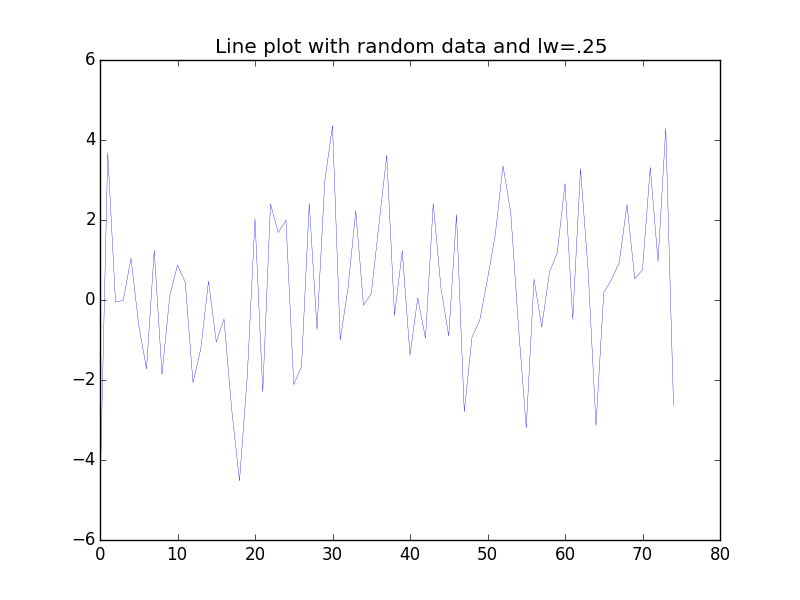
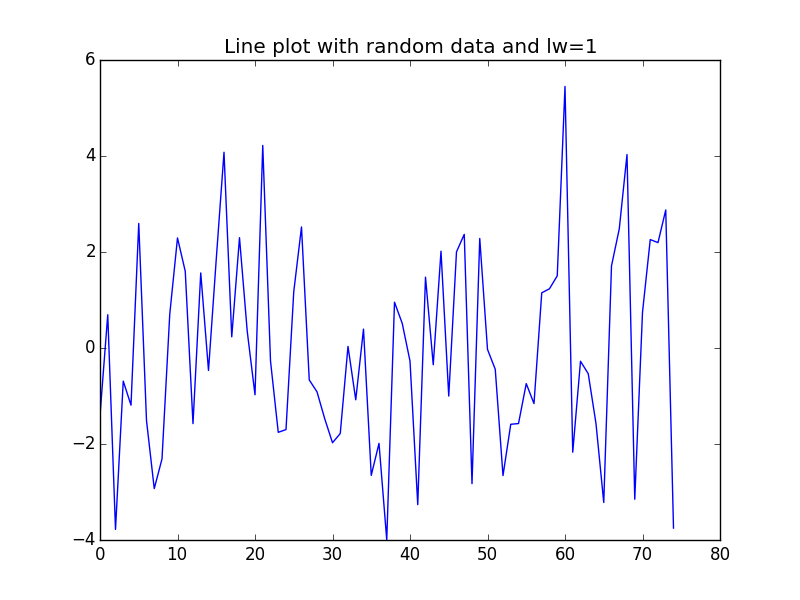
Changed some of the graphs in data visualization lab

diff --git a/Labs/ScientificVisualization/DataVisualization.tex b/Labs/ScientificVisualization/DataVisualization.tex
@@ -186,11 +186,11 @@ plot a histogram with white reference lines.  Do this for 20 bins, 10 bins, 5 bi
 
 \subsection*{Line Plots}
 
-Line plots should not be used for data that is one-dimensional or is two-dimensional with no natural ordering or progression because it gives the false impression that there is an order or progression when none exists (see Figure \ref{fig:lineplot_bad}.
+Line plots should not be used for data that is one-dimensional or is two-dimensional with no natural ordering or progression because it gives the false impression that there is an order or progression when none exists (see Figure \ref{fig:lineplotbadX}).
 
 Recall that you can create a line plot in matplotlib with the command \li{plt.plot()}.
 
-When plotting line graphs in matplotlib, the default line width is usually too thin.  It will help your reader (or you) if you set the line width to 2 or more with the argument \li{lw=2}.
+When plotting line graphs in matplotlib, the default line width is usually too thin.  It will help your reader (or you) if you set the line width to 2 or more with the argument \li{lw=2} (See Figure \ref{fig:lineplot_bad}).
 
 %\li{plt.plot(x,y,lw=2)}
 
@@ -203,10 +203,20 @@ When plotting line graphs in matplotlib, the default line width is usually too t
 \end{subfigure}
 \begin{subfigure}{.45\textwidth}
 \centering
-\includegraphics[width=\textwidth]{line_plot_bad_thick.png}
+\includegraphics[width=\textwidth]{line_plot_good.png}
 \end{subfigure}
-\caption{Line Plot}
+\caption{Line Plot.  The left plot is plotted with \li{lw=1} whereas the right plot is plotted with \li{lw=2}.  Notice that the right plot is better because it is easier to see the line.}
 \label{fig:lineplot_bad}
+\end{figure}
+
+\begin{figure}
+\centering
+\begin{subfigure}{.5\textwidth}
+\centering
+\includegraphics[width=\textwidth]{line_plot_bad_X.png}
+\end{subfigure}
+\caption{Line plot.  Notice that this graph appears to show that the x-values are ordered.  Whereas in reality they are unordered.  This is a bad practice and misrepresents the data.}
+\label{fig:lineplotbadX}
 \end{figure}
 
 
@@ -271,18 +281,6 @@ You can create a contour plot in matplotlib with
 Filling in the contours with successive colors gives a  \emph{heat map}. Note that the default color map for matplotlib is the  \emph{rainbow color map}.  This is a poor choice for a heat map or colored contour map because people do not naturally interpret one color to be greater than another.  To solve this problem in matplotlib, use the argument \li{cmap='NAME\_OF\_COLORMAP'}
 where \li{NAME\_OF\_COLORMAP} is one of matplotlib's sequential or diverging colormaps like \li{afmhot}. 
 
-\begin{lstlisting}
-import numpy as np
-from matplotlib import pyplot as plt
-
-n=400
-xrange = np.linspace(-1.5,1.5,n)
-yrange = np.linspace(-1.5,1.5,n)
-X, Y = np.meshgrid(xrange,yrange)
-F = Y**2 - X**3 + X**2
-plt.contourf(X, Y, F, [-2,-1,0.0001,1,2,3,4,5] ,cmap=plt.get_cmap('afmhot'))
-\end{lstlisting}
-
 \begin{figure}[h]
 \centering
 \begin{subfigure}{.45\textwidth}
@@ -301,13 +299,25 @@ plt.contourf(X, Y, F, [-2,-1,0.0001,1,2,3,4,5] ,cmap=plt.get_cmap('afmhot'))
 \centering
 \includegraphics[width=\textwidth]{contour_map_rainbow.png}
 \end{subfigure}
-\caption{Contour Maps.  The top left is a good contour map and the top right is a good heat map, and the bottom tow are inferior because of bad color choices.}
+\caption{Contour Maps.  The top left is a good contour map and the top right is a good heat map, and the bottom two are inferior because of bad color choices.  The top right corresponds to the code below.}
 \label{fig:contour}
 \end{figure}
 
+\begin{lstlisting}
+# This code corresponds to the above graph on the top right.
+import numpy as np
+from matplotlib import pyplot as plt
+
+n=400
+xrange = np.linspace(-1.5,1.5,n)
+yrange = np.linspace(-1.5,1.5,n)
+X, Y = np.meshgrid(xrange,yrange)
+F = Y**2 - X**3 + X**2
+plt.contourf(X, Y, F, [-2,-1,0.0001,1,2,3,4,5] ,cmap=plt.get_cmap('afmhot'))
+\end{lstlisting}
 
 
-TODO add in the list (and pix) of sequential and diverging colormaps from \url{http://matplotlib.org/examples/color/colormaps_reference.html} 
+TODO add in a list (and pix) of a few sequential and diverging colormaps from \url{http://matplotlib.org/examples/color/colormaps_reference.html} 
 
 
 
@@ -354,13 +364,9 @@ TODO make an example where things are binned in two different ways  and give a d
 
 
 Finally, three-dimensional data can also be plotted as a surface in 3-space, but it is often difficult to find a view where none of the important features of the data are obscured.
-A heatmap can help avoid this problem and is often easier for the viewer to decode.
+A heatmap can help avoid this problem and is often easier for the viewer to decode (see Problem \ref{prob:differentVisualizations}).
 
-
-TODO give example of how the surface can obscure your view and how the contour or heatmap gives a clearer picture.
-
-
-\section*{Exploring data with visualizations}
+\section*{Exploring Data with Visualizations}
 When you visualize data you may notice trends that are not apparent from the numbers. 
 The following problem is a famous example of this phenomenon.
 
@@ -400,7 +406,7 @@ x & y & x & y & x & y & x & y \\
 
 As Problem \ref{prob:anscombe} demonstrates, a picture can quickly reveal properties of the data that are difficult to see in a list of numbers.
 
-\subsection*{The iterative process of exploratory visualization} 
+\subsection*{The Iterative Process of Exploratory Visualization} 
 
 Understanding a data set through visualization is often an iterative process. We start with an initial visualization---usually a broad overview.  Examining the result leads to observations that provoke questions.  We then filter or transform the data and adjust the visualization based on those questions and observations, and then repeat the process until we converge on a useful result.
 
@@ -415,11 +421,11 @@ Some of the questions that you should be asking in this iterative process includ
 \end{enumerate}
 Let's consider each of these questions in more detail.
 
-\subsubsection*{1. Data integrity}
+\subsubsection*{1. Data Integrity}
 
 Visualization is a powerful way to identify problems with your data set.  Ask yourself, whether the results look like what you expect.  Are they the right magnitude? Are there missing values? 
 
-\subsubsection*{2. Trends, patterns, and irregularities}
+\subsubsection*{2. Trends, Patterns, and Irregularities}
 
 Some patterns you may look for:
 \begin{enumerate}
@@ -434,10 +440,11 @@ Some patterns you may look for:
 \item Is the data dense or sparse?
 \end{enumerate}
 
-\subsubsection*{3. Using different types of visualization}
+\subsubsection*{3. Using Different Types of Visualization}
 
 Data can be visualized using different types of visualization and is relatively easy to transform.
 
+TODO give example of how the surface can obscure your view and how the contour or heatmap gives a clearer picture.
 \begin{problem}
 This data
 
@@ -458,7 +465,7 @@ Violin & 22 \\
  is visualized in Figure \ref{fig:pie} as a pie chart.
 
 Choose another type of visualization and plot the data again. What are the relative merits of your plot compared to the pie chart?
-
+\label{prob:differentVisualizations}
 \end{problem}
 
 \begin{comment}
@@ -473,7 +480,7 @@ Choose another type of visualization and plot the data again. What are the relat
 \end{figure}
 \end{comment}
 
-\subsubsection*{4. Changing the view}
+\subsubsection*{4. Changing the View}
 
 By choosing to plot only a portion of your data, you may be able to focus your attention on the most relevant data.  On the other hand, you may also miss some interesting behavior in the data you didn't graph. Figures \ref{fig:scatter_correlation} and \ref{fig:line_scale} are two such examples. 
 
@@ -514,7 +521,7 @@ from Problem 3 and plot it a few more times adjusting the scale.
 TODO example where scatterplot of all people looks random, but separating by something like education level shows clear trends for one level. 
 \end{comment}
 
-\subsubsection*{Transforming the data}
+\subsubsection*{Transforming the Data}
 
 Often a transformation of the data can reveal useful information that was previously hidden.
 
@@ -546,7 +553,7 @@ Transformations can also be useful for histograms.
 As an example, let us look at the cost of health care claims. 
 Our data set is fabricated, but designed to closely resemble real-life data. 
 An initial plotting of the data produces the histogram on the left in Figure \ref{fig:healthcare}. 
-From this picture, it is hard to see the nature of the data---the plot just looks like a single bar. 
+From this picture, it is hard to see the nature of the data---the plot almost looks like a single bar. 
 We may think that all health care claims are cheap. 
 However, when we take the logarithm of the claims prices, we get the histogram on the right in Figure \ref{fig:healthcare}. 
 Graphed on this scale, the data has a bell-shaped distribution similar to a normal distribution. 
@@ -561,17 +568,18 @@ Moreover, we see that there are some very expensive claims being submitted, thou
   \centering
   \includegraphics[width=\textwidth]{healthcare_logscale.pdf}
 \end{subfigure}
-\caption{The same data (meant to resemble the prices of health care claims) is plotted in both histograms above. 
-The plot at left is a lin-lin scale, whereas the plot at right is a log-lin scale. 
+\caption{Two histograms of the same data are plotted above. 
+The plot at left is a lin-lin scale, whereas the plot at right is a log-lin scale (log of the $y$-values). 
 In this case, changing scales revealed important information about the data.}
 \label{fig:healthcare}
 \end{figure}
 
-As a general rule, log-lin plots are useful when the range of the $y$-values is orders of magnitude larger than the range of the $x$-values. 
+As a general rule, taking the log of the $y$-values is most useful when the range of the $y$-values is orders of magnitude larger than the range of the $x$-values. 
 Our health care data was an example of this. 
-Similarly, lin-log plots are useful when the range of the $x$-values is much bigger than the range of the $y$-values. 
+Similarly, taking the log of the $x$-values is most useful when the range of the $x$-values is much bigger than the range of the $y$-values. 
 In any case, you can try applying a log scale to one or both of your axes as a way to explore your data.
 
+\begin{comment}
 Let us analyze the mathematics behind log plots. 
 Suppose we have some data that roughly follows the line $y=cx^a$ where $c$ and $a$ are constants. 
 Taking the logarithm of both sides yields
@@ -579,7 +587,7 @@ Taking the logarithm of both sides yields
 \log(y) = a\log(x) + \log(c).
 \]
 If we set new variables $X = \log(x)$ and $Y = \log(y)$, then this equation becomes $Y = aX + \log(c)$, which is the equation of a straight line. 
-So  on a log-log plot, polynomial-shaped data looks linear. 
+So on a log-log plot, polynomial-shaped data looks linear. 
 Similarly, taking the log of $y = a^x$ yields
 \[
 \log(y) = \log(a)x,
@@ -587,6 +595,7 @@ Similarly, taking the log of $y = a^x$ yields
 so exponential data looks linear on a log-lin plot. 
 Finally, data of the form $y = a\log(x)+b$ will look linear on a lin-log plot. 
 See Figure \ref{fig:log_plots}.
+\end{comment}
 
 \begin{figure}
 \centering
@@ -597,7 +606,7 @@ We have used different ranges on the $y$-axes to highlight appropriate parts of 
 \label{fig:log_plots}
 \end{figure}
 
-Be warned that many different functions can look linear on log plots. 
+Be warned that many different functions can look almost linear on log plots. 
 Thus, if you graph your data on a log-log plot and you see a line, you cannot conclude that your data must follow a polynomial. 
 In general, you need more information.
 
@@ -701,13 +710,13 @@ explore it. Plot it in different ways, zoom in and out, and do a transformation.
 
 
 
-\section*{Communicating data with visualizations}
+\section*{Communicating Data with Visualizations}
 
 As the saying has it, ``a picture is worth a thousand words.'' 
 Certainly, a data visualization is far more valuable than a thousand data points to a colleague who wants to understand the results of your analysis. 
 Data visualizations are critical for communication in both business and research.
 
-\subsection*{Choosing the right visualization}
+\subsection*{Choosing the Right Visualization}
 At this point, you have already used visualization to explore your data and draw conclusions, and you are ready to tell your results to someone else. 
 The first step in creating a graphic to do this is to choose the right type of visualization. 
 As we saw in the section ``Types of Visualizations,'' there are many possibilities, each with different strengths. 
@@ -747,9 +756,9 @@ Other visualization types that tend to be confusing and ineffective include the 
 \end{subfigure}
 \begin{subfigure}{.45\textwidth}
 \centering
-\includegraphics[width=\textwidth]{stackedbarinv.png}
+\includegraphics[width=\textwidth]{unstackedbar.png}
 \end{subfigure}
-\caption{Stacked Bar Chart comparison}
+\caption{Stacked Bar Chart. Note how much more difficult it is to compare the relative values when they are stacked (on the left) instead of adjacent (on the right).}
 \label{fig:stacked}
 \end{figure}
 
@@ -931,7 +940,7 @@ Just as graphics can tell your reader about your data, they can also give your v
 You should never use data visualizations to mislead your reader. 
 There are many ways that pictures can be used to lie, and some of them can be unintentional.
 
-\subsubsection*{2- and 3-D effects}
+\subsubsection*{2- and 3-D Effects}
 For example, we see differences in flat shapes by area, not width or height. 
 Suppose you are creating a pictogram to demonstrate the recent increase in housing prices, which have doubled in the last $n$ years. 
 So, you draw two houses, one whose sides are 1cm and one whose sides are 2cm. 
@@ -945,7 +954,7 @@ Even worse, volume is cubed rather than squared, so if a picture is intended to 
 Three-dimensional special effects also tend to be misleading.  As mentioned above, a 3-D pie chart, for example, can be used to distort the sizes of its slices. 
 Similarly, a 3-D histogram can use perspective to distort the relative differences between bars.
 
-\subsubsection*{Base, scale, and labels}  
+\subsubsection*{Base, Scale, and Labels}  
 
 As mentioned above, bar charts should be based at 0 and all charts should be scaled in the way that most clearly conveys the most important and relevant information.  When there is a possibility of confusion, axes and key data values should be labeled for clarity.
 
